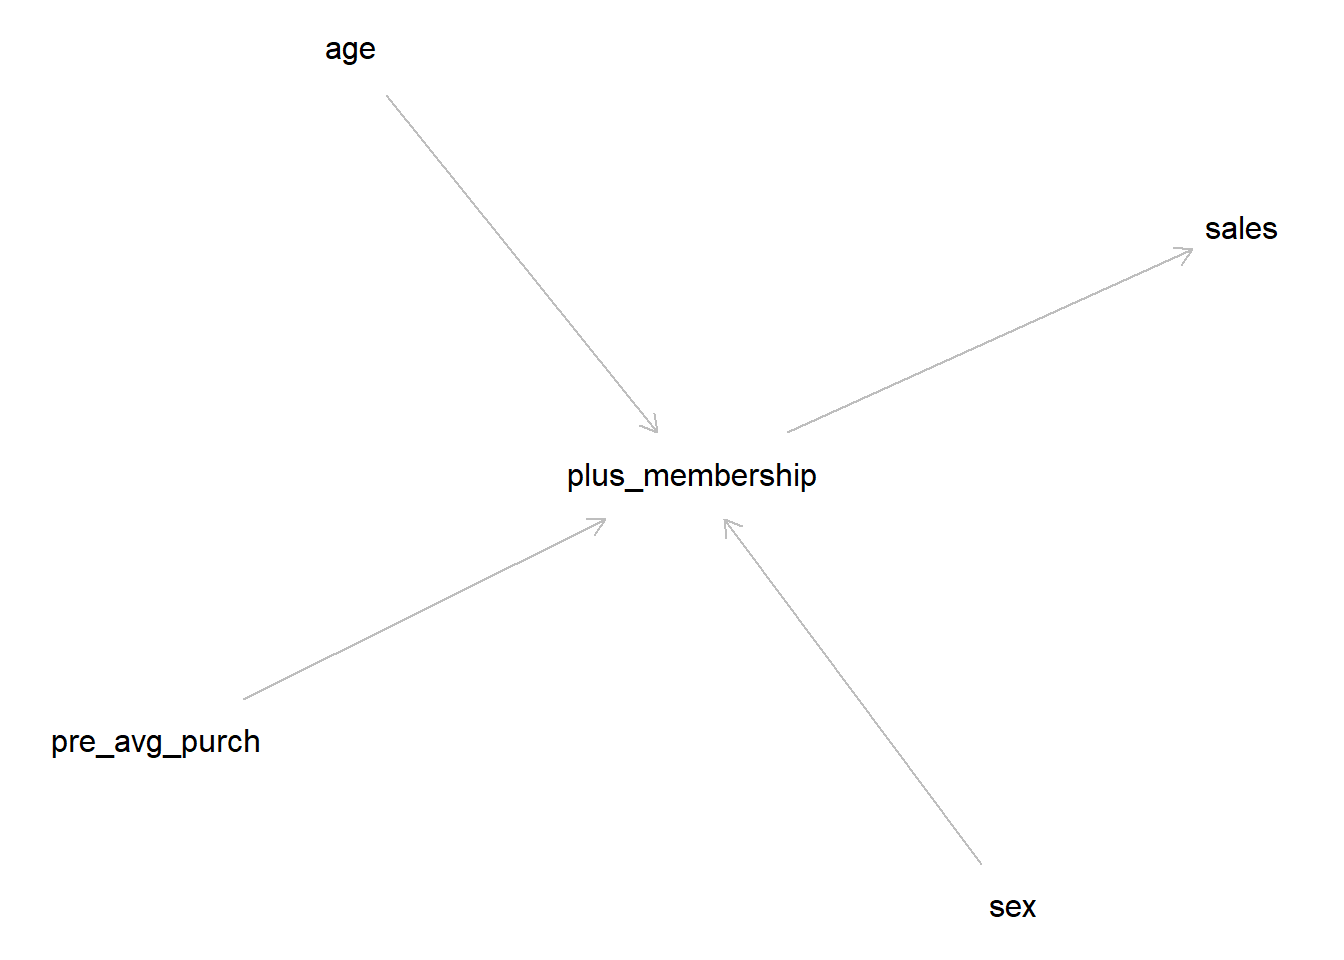
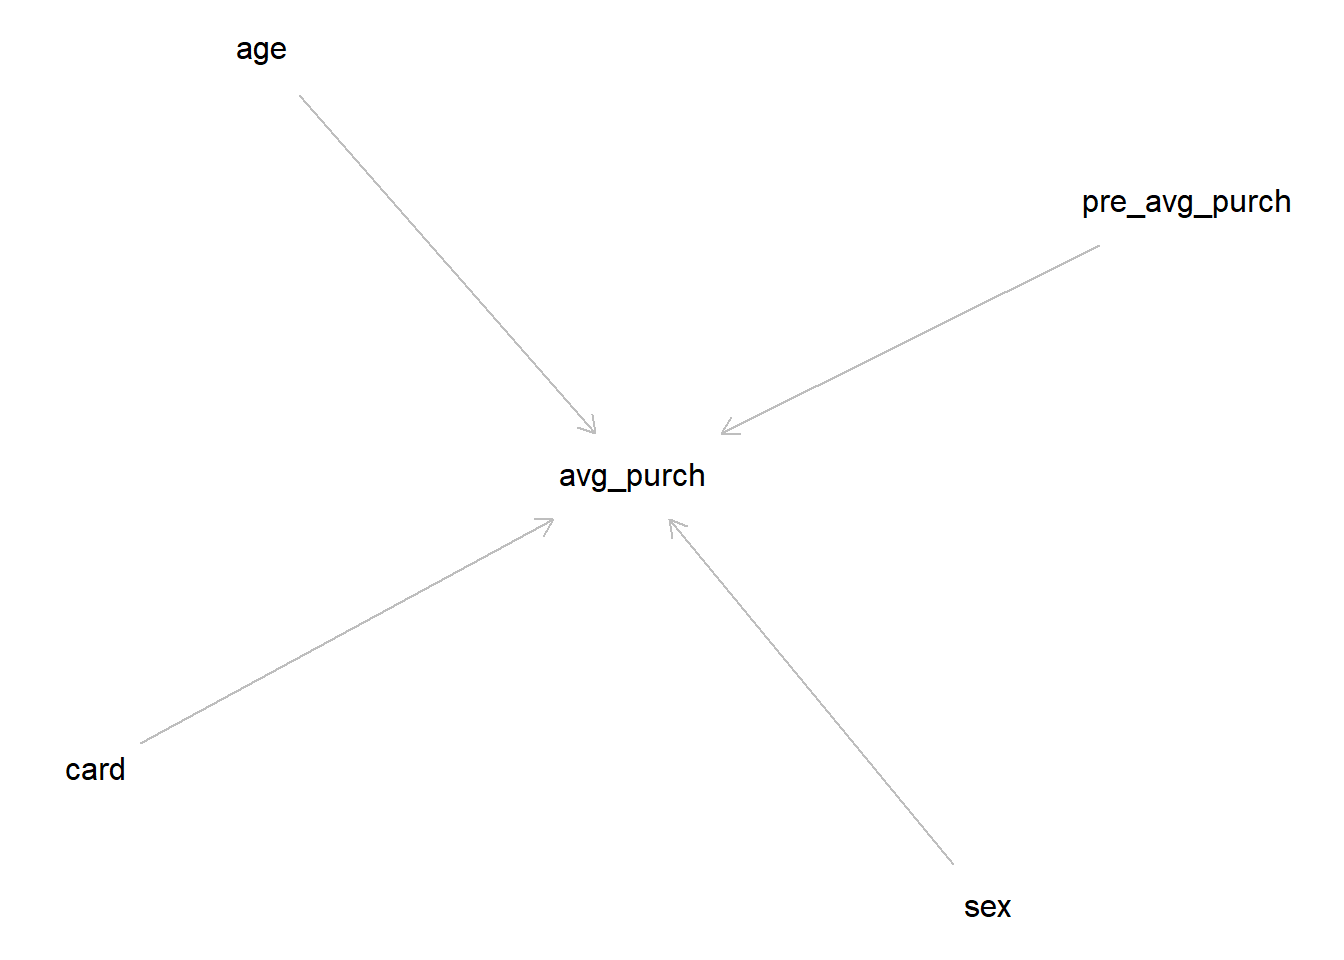
Updation of code
Fixed few errors

diff --git a/_site/content/01_journal/07_matching.html b/_site/content/01_journal/07_matching.html
@@ -216,24 +216,22 @@ pre > code.sourceCode > span > a:first-child::before { text-decoration: underlin
 
 </header>
 
-<div class="cell" data-hash="07_matching_cache/html/unnamed-chunk-1_15e01816b7cc6a95a4bc68bb97e9d9fe">
+<div class="cell" data-hash="07_matching_cache/html/unnamed-chunk-1_30d9e51f47b645a6c036e223c551e22a">
 <div class="sourceCode cell-code" id="cb1"><pre class="sourceCode numberSource r number-lines code-with-copy"><code class="sourceCode r"><span id="cb1-1"><a href="#cb1-1"></a>data <span class="ot">&lt;-</span> <span class="fu">readRDS</span>(<span class="st">"C:/Users/Anjali/Downloads/Causal_Data_Science_Data (1)/Causal_Data_Science_Data/membership.rds"</span>)</span>
 <span id="cb1-2"><a href="#cb1-2"></a></span>
 <span id="cb1-3"><a href="#cb1-3"></a><span class="co"># Install and load the 'dagitty' package</span></span>
-<span id="cb1-4"><a href="#cb1-4"></a><span class="fu">library</span>(dagitty)</span></code><button title="Copy to Clipboard" class="code-copy-button"><i class="bi"></i></button></pre></div>
-<div class="cell-output cell-output-stderr">
-<pre><code>#&gt; Warning: package 'dagitty' was built under R version 4.3.2</code></pre>
-</div>
-<div class="sourceCode cell-code" id="cb3"><pre class="sourceCode numberSource r number-lines code-with-copy"><code class="sourceCode r"><span id="cb3-1"><a href="#cb3-1"></a><span class="co"># Create a DAG</span></span>
-<span id="cb3-2"><a href="#cb3-2"></a>dag <span class="ot">&lt;-</span> <span class="fu">dagitty</span>(<span class="st">"dag {</span></span>
-<span id="cb3-3"><a href="#cb3-3"></a><span class="st">  age -&gt; plus_membership</span></span>
-<span id="cb3-4"><a href="#cb3-4"></a><span class="st">  sex -&gt; plus_membership</span></span>
-<span id="cb3-5"><a href="#cb3-5"></a><span class="st">  pre_avg_purch -&gt; plus_membership</span></span>
-<span id="cb3-6"><a href="#cb3-6"></a><span class="st">  plus_membership -&gt; sales</span></span>
-<span id="cb3-7"><a href="#cb3-7"></a><span class="st">}"</span>)</span>
-<span id="cb3-8"><a href="#cb3-8"></a></span>
-<span id="cb3-9"><a href="#cb3-9"></a><span class="co"># Plot the DAG</span></span>
-<span id="cb3-10"><a href="#cb3-10"></a><span class="fu">plot</span>(dag)</span></code><button title="Copy to Clipboard" class="code-copy-button"><i class="bi"></i></button></pre></div>
+<span id="cb1-4"><a href="#cb1-4"></a><span class="fu">library</span>(dagitty)</span>
+<span id="cb1-5"><a href="#cb1-5"></a></span>
+<span id="cb1-6"><a href="#cb1-6"></a><span class="co"># Create a DAG</span></span>
+<span id="cb1-7"><a href="#cb1-7"></a>dag <span class="ot">&lt;-</span> <span class="fu">dagitty</span>(<span class="st">"dag {</span></span>
+<span id="cb1-8"><a href="#cb1-8"></a><span class="st">  age -&gt; avg_purch</span></span>
+<span id="cb1-9"><a href="#cb1-9"></a><span class="st">  sex -&gt; avg_purch</span></span>
+<span id="cb1-10"><a href="#cb1-10"></a><span class="st">  pre_avg_purch -&gt; avg_purch</span></span>
+<span id="cb1-11"><a href="#cb1-11"></a><span class="st">  card -&gt; avg_purch</span></span>
+<span id="cb1-12"><a href="#cb1-12"></a><span class="st">}"</span>)</span>
+<span id="cb1-13"><a href="#cb1-13"></a></span>
+<span id="cb1-14"><a href="#cb1-14"></a><span class="co"># Plot the DAG</span></span>
+<span id="cb1-15"><a href="#cb1-15"></a><span class="fu">plot</span>(dag)</span></code><button title="Copy to Clipboard" class="code-copy-button"><i class="bi"></i></button></pre></div>
 <div class="cell-output cell-output-stderr">
 <pre><code>#&gt; Plot coordinates for graph not supplied! Generating coordinates, see ?coordinates for how to set your own.</code></pre>
 </div>
@@ -244,46 +242,23 @@ pre > code.sourceCode > span > a:first-child::before { text-decoration: underlin
 </figure>
 </div>
 </div>
-<div class="sourceCode cell-code" id="cb5"><pre class="sourceCode numberSource r number-lines code-with-copy"><code class="sourceCode r"><span id="cb5-1"><a href="#cb5-1"></a><span class="co"># Save the plot as an image file (e.g., PNG)</span></span>
-<span id="cb5-2"><a href="#cb5-2"></a><span class="fu">png</span>(<span class="st">"dag_plot.png"</span>, <span class="at">width =</span> <span class="dv">800</span>, <span class="at">height =</span> <span class="dv">600</span>, <span class="at">units =</span> <span class="st">"px"</span>, <span class="at">pointsize =</span> <span class="dv">12</span>)</span>
-<span id="cb5-3"><a href="#cb5-3"></a><span class="fu">plot</span>(dag)</span></code><button title="Copy to Clipboard" class="code-copy-button"><i class="bi"></i></button></pre></div>
-<div class="cell-output cell-output-stderr">
-<pre><code>#&gt; Plot coordinates for graph not supplied! Generating coordinates, see ?coordinates for how to set your own.</code></pre>
 </div>
-<div class="sourceCode cell-code" id="cb7"><pre class="sourceCode numberSource r number-lines code-with-copy"><code class="sourceCode r"><span id="cb7-1"><a href="#cb7-1"></a><span class="fu">dev.off</span>()</span></code><button title="Copy to Clipboard" class="code-copy-button"><i class="bi"></i></button></pre></div>
+<div class="cell" data-hash="07_matching_cache/html/unnamed-chunk-2_7bd1f064644cf372686075ab5d684227">
+<div class="sourceCode cell-code" id="cb3"><pre class="sourceCode numberSource r number-lines code-with-copy"><code class="sourceCode r"><span id="cb3-1"><a href="#cb3-1"></a><span class="co">#2</span></span>
+<span id="cb3-2"><a href="#cb3-2"></a></span>
+<span id="cb3-3"><a href="#cb3-3"></a><span class="co"># Calculate average purchase for customers with plus membership</span></span>
+<span id="cb3-4"><a href="#cb3-4"></a>avg_purchase_treatment <span class="ot">&lt;-</span> <span class="fu">mean</span>(data<span class="sc">$</span>avg_purch[data<span class="sc">$</span>card <span class="sc">==</span> <span class="dv">1</span>], <span class="at">na.rm =</span> <span class="cn">TRUE</span>)</span>
+<span id="cb3-5"><a href="#cb3-5"></a></span>
+<span id="cb3-6"><a href="#cb3-6"></a><span class="co"># Calculate average purchase for customers without plus membership</span></span>
+<span id="cb3-7"><a href="#cb3-7"></a>avg_purchase_control <span class="ot">&lt;-</span> <span class="fu">mean</span>(data<span class="sc">$</span>avg_purch[data<span class="sc">$</span>card <span class="sc">==</span> <span class="dv">0</span>], <span class="at">na.rm =</span> <span class="cn">TRUE</span>)</span>
+<span id="cb3-8"><a href="#cb3-8"></a></span>
+<span id="cb3-9"><a href="#cb3-9"></a><span class="co"># Compute the naive estimate of the average treatment effect</span></span>
+<span id="cb3-10"><a href="#cb3-10"></a>naive_ate <span class="ot">&lt;-</span> avg_purchase_treatment <span class="sc">-</span> avg_purchase_control</span>
+<span id="cb3-11"><a href="#cb3-11"></a></span>
+<span id="cb3-12"><a href="#cb3-12"></a><span class="co"># Print or use the naive_ate value</span></span>
+<span id="cb3-13"><a href="#cb3-13"></a><span class="fu">cat</span>(<span class="st">"Naive Estimate of ATE:"</span>, naive_ate, <span class="st">"</span><span class="sc">\n</span><span class="st">"</span>)</span></code><button title="Copy to Clipboard" class="code-copy-button"><i class="bi"></i></button></pre></div>
 <div class="cell-output cell-output-stdout">
-<pre><code>#&gt; png 
-#&gt;   2</code></pre>
-</div>
-</div>
-<div class="cell" data-hash="07_matching_cache/html/unnamed-chunk-2_ff9f373705888300a888380743cf9d7f">
-<div class="sourceCode cell-code" id="cb9"><pre class="sourceCode numberSource r number-lines code-with-copy"><code class="sourceCode r"><span id="cb9-1"><a href="#cb9-1"></a><span class="co">#2</span></span>
-<span id="cb9-2"><a href="#cb9-2"></a></span>
-<span id="cb9-3"><a href="#cb9-3"></a><span class="co"># Create a binary variable indicating treatment (1 for cardholders) or control (0 for non-cardholders)</span></span>
-<span id="cb9-4"><a href="#cb9-4"></a>data<span class="sc">$</span>treatment <span class="ot">&lt;-</span> <span class="fu">ifelse</span>(data<span class="sc">$</span>card <span class="sc">==</span> <span class="dv">1</span>, <span class="dv">1</span>, <span class="dv">0</span>)</span>
-<span id="cb9-5"><a href="#cb9-5"></a></span>
-<span id="cb9-6"><a href="#cb9-6"></a><span class="co"># Separate the data into treatment and control groups</span></span>
-<span id="cb9-7"><a href="#cb9-7"></a>treatment_group <span class="ot">&lt;-</span> data[data<span class="sc">$</span>treatment <span class="sc">==</span> <span class="dv">1</span>, ]</span>
-<span id="cb9-8"><a href="#cb9-8"></a>control_group <span class="ot">&lt;-</span> data[data<span class="sc">$</span>treatment <span class="sc">==</span> <span class="dv">0</span>, ]</span>
-<span id="cb9-9"><a href="#cb9-9"></a></span>
-<span id="cb9-10"><a href="#cb9-10"></a><span class="co"># Compute the average sales for each group</span></span>
-<span id="cb9-11"><a href="#cb9-11"></a>average_sales_treatment <span class="ot">&lt;-</span> <span class="fu">mean</span>(treatment_group<span class="sc">$</span>sales)</span></code><button title="Copy to Clipboard" class="code-copy-button"><i class="bi"></i></button></pre></div>
-<div class="cell-output cell-output-stderr">
-<pre><code>#&gt; Warning in mean.default(treatment_group$sales): argument is not numeric or
-#&gt; logical: returning NA</code></pre>
-</div>
-<div class="sourceCode cell-code" id="cb11"><pre class="sourceCode numberSource r number-lines code-with-copy"><code class="sourceCode r"><span id="cb11-1"><a href="#cb11-1"></a>average_sales_control <span class="ot">&lt;-</span> <span class="fu">mean</span>(control_group<span class="sc">$</span>sales)</span></code><button title="Copy to Clipboard" class="code-copy-button"><i class="bi"></i></button></pre></div>
-<div class="cell-output cell-output-stderr">
-<pre><code>#&gt; Warning in mean.default(control_group$sales): argument is not numeric or
-#&gt; logical: returning NA</code></pre>
-</div>
-<div class="sourceCode cell-code" id="cb13"><pre class="sourceCode numberSource r number-lines code-with-copy"><code class="sourceCode r"><span id="cb13-1"><a href="#cb13-1"></a><span class="co"># Compute the naive estimate of the ATE</span></span>
-<span id="cb13-2"><a href="#cb13-2"></a>naive_ate <span class="ot">&lt;-</span> average_sales_treatment <span class="sc">-</span> average_sales_control</span>
-<span id="cb13-3"><a href="#cb13-3"></a></span>
-<span id="cb13-4"><a href="#cb13-4"></a><span class="co"># Print or return the naive estimate of ATE</span></span>
-<span id="cb13-5"><a href="#cb13-5"></a><span class="fu">cat</span>(<span class="st">"Naive Estimate of ATE:"</span>, naive_ate, <span class="st">"</span><span class="sc">\n</span><span class="st">"</span>)</span></code><button title="Copy to Clipboard" class="code-copy-button"><i class="bi"></i></button></pre></div>
-<div class="cell-output cell-output-stdout">
-<pre><code>#&gt; Naive Estimate of ATE: NA</code></pre>
+<pre><code>#&gt; Naive Estimate of ATE: 25.2195</code></pre>
 </div>
 </div>
 
@@ -639,7 +614,7 @@ window.document.addEventListener("DOMContentLoaded", function (event) {
 });
 </script>
 </div> <!-- /content -->
-<script>var lightboxQuarto = GLightbox({"closeEffect":"zoom","descPosition":"bottom","loop":true,"selector":".lightbox","openEffect":"zoom"});</script>
+<script>var lightboxQuarto = GLightbox({"selector":".lightbox","loop":true,"openEffect":"zoom","descPosition":"bottom","closeEffect":"zoom"});</script>
 
 
 
